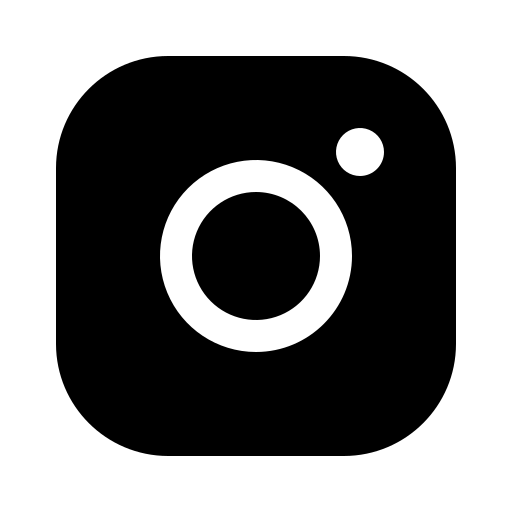
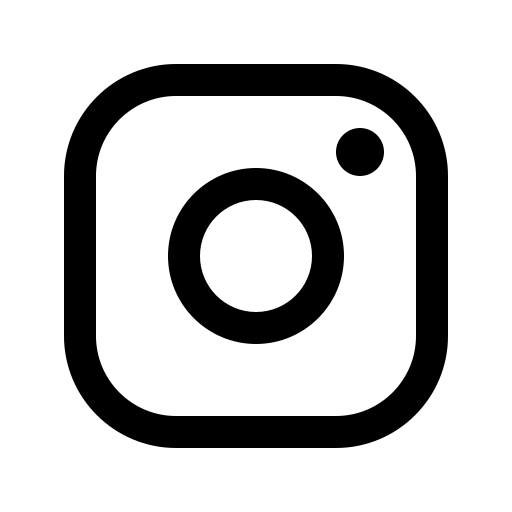
mobile pronto, pedroluca.com v2.0

diff --git a/index.html b/index.html
@@ -12,13 +12,13 @@
     <body>
         <section class="home">
             <div class="main-box">
-                <img class="profile-img" src="./media/profile2.jpg">
+                <img class="profile-img" src="./media/profile.jpg">
                 <h1 id="main-title">Pedro Luca Prates</h1>
                 <h3 id="sub-title">@pe.uuh</h3>
                 <div class="links">
                     <a href="https://instagram.com/pe.uuh" target="_blank">
                         <div class="botoes">
-                            <img src="./media/instagram4.png">
+                            <img src="./media/instagram.png">
                             <h3>Instagram</h3>
                         </div>
                     </a>
